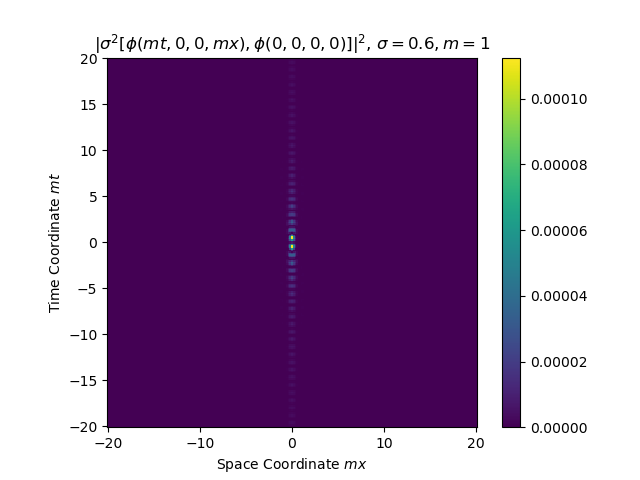
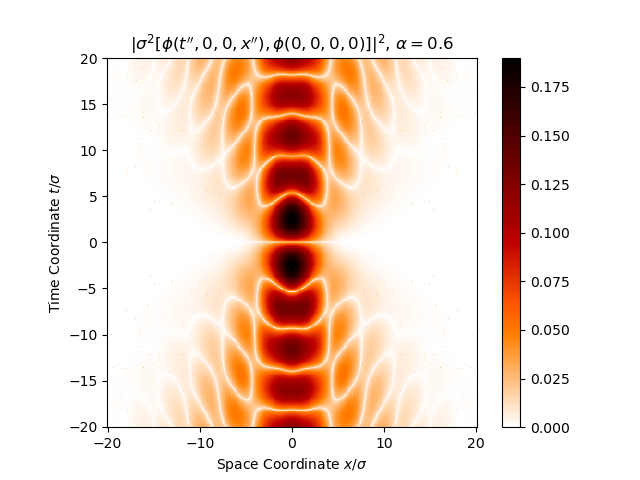
Fix colormap and computation. New and better plots.

diff --git a/commutators.py b/commutators.py
@@ -1,0 +1,94 @@
+import os
+import multiprocessing
+
+os.environ["XLA_FLAGS"] = "--xla_force_host_platform_device_count={}".format(
+    multiprocessing.cpu_count()
+)
+
+import jax
+jax.config.update('jax_platform_name', 'cpu')
+
+platform = jax.lib.xla_bridge.get_backend().platform.casefold()
+#print("Platform: ", platform)
+
+NUM_PROC = 56
+FOLDER = "./output/"
+#print(jax.device_count(backend="cpu"))
+
+import jax.numpy as np
+
+#import multiprocessing as mp
+from quadax import quadgk
+
+from functools import partial
+
+def integrand(r, x, t, a):
+    f = np.exp(-1/2 * r**2)
+    return r**2 * f**2 * np.sinc(r*x / np.pi) * np.sinc(t * f * np.sqrt(r**2 + a**2) / np.pi)
+
+@partial(jax.jit, static_argnames=['a'])
+def comm(x, t, a):
+    #with warnings.catch_warnings():
+    #    warnings.simplefilter("ignore")
+    I, _ = quadgk(lambda r: integrand(r, x, t, a), [0, +np.inf])  
+    
+    return abs(1/(2 * np.pi**2) * t * I)**2
+
+def calc(lim_x, lim_t, step, alpha):
+    xs = np.linspace(-lim_x, lim_x, step)
+    ts = np.linspace(-lim_t, lim_t, step)
+    
+    xx, tt = np.meshgrid(xs, ts)
+    
+    # manual parallel processing
+    #arguments = [(x, t, alpha) for t in ts for x in xs]
+    #mp_context = mp.get_context("spawn")
+    #with mp_context.Pool(processes=NUM_PROC) as pool:
+    #    z = pool.starmap(comm, arguments)
+    #z = np.array(z).reshape(step, step)
+    
+    # vectorization with JAX
+    vcomm = jax.vmap(jax.vmap(lambda x, t: comm(x, t, alpha), in_axes=(0, None)), in_axes=(None, 0))
+    z = vcomm(xs, ts)
+    
+    return xx, tt, z
+
+import matplotlib.pyplot as plt
+
+def plot(xx, tt, z, sigma, mass, label=None, log=False, show=True):
+    ax = plt.gca()
+    ax.axis('equal')
+    ax.set_box_aspect(1)
+    
+    # heat_r, gist_heat_r, ...
+    cnt = plt.pcolormesh(xx, tt, z, cmap='gist_heat_r', antialiased=False, shading='auto')
+    #plt.contourf(xx, tt, z)
+    #plt.imshow(z)
+    
+    plt.colorbar()
+    plt.xlabel(r"Space Coordinate $x/\sigma$")
+    plt.ylabel(r"Time Coordinate $t/\sigma$")
+    plt.title("$" + (r"\log" if log else "") + "|\sigma^2 [\phi(t'',0,0,x''), \phi(0,0,0,0)]|^2$, "
+                  + r"$\alpha" + f" = {sigma*mass}$")
+    
+    if label:
+        plt.savefig(FOLDER + label + ("-log" if log else "") + ".png")
+    
+    if show:
+        plt.show()
+    
+def run1(lim_x, lim_t, step, sigma, mass, label=None, log=False, show=True):
+    alpha = sigma * mass
+    
+    xx, tt, z = calc(lim_x, lim_t, step, alpha)
+    
+    if not label:
+        label = f"numerical-commutator-m{mass}-s{sigma}-l{lim_x}-{lim_t}"
+    
+    plot(xx, tt, z**(1/4), sigma, mass, label=label, show=show)
+    
+    if log:
+        plot(xx, tt, np.log(z), sigma, mass, label=label, log=True, show=show)
+
+def run2(alpha):
+    run1(20, 20, 400, alpha, 1, log=False)
